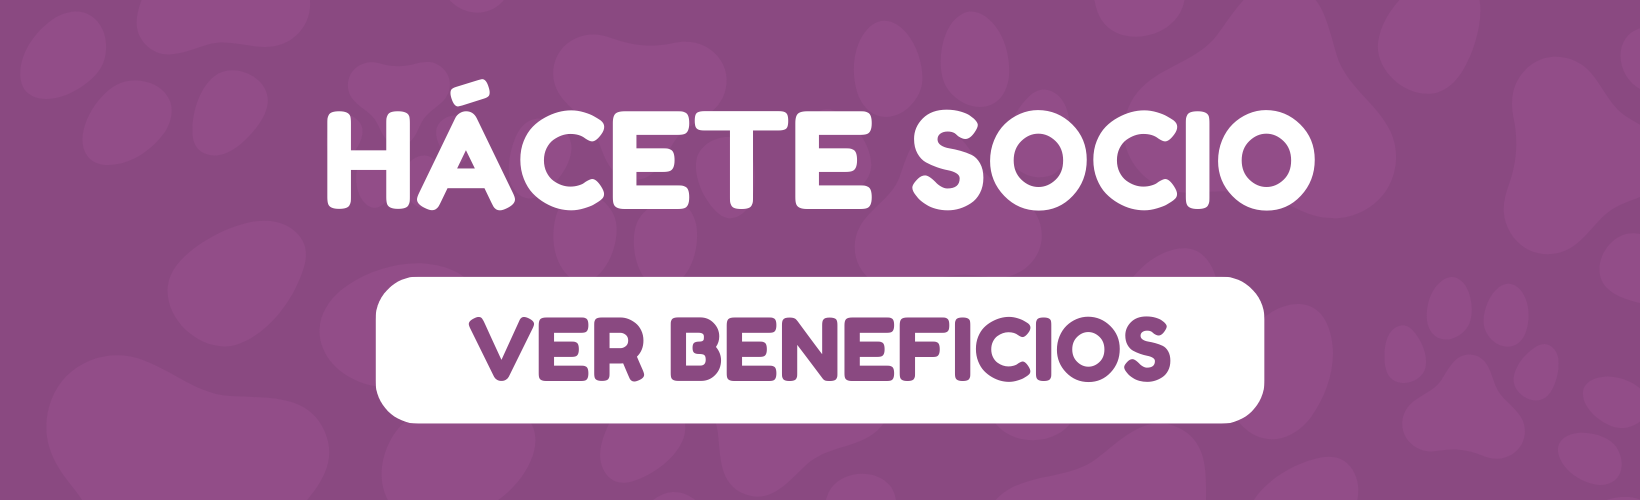
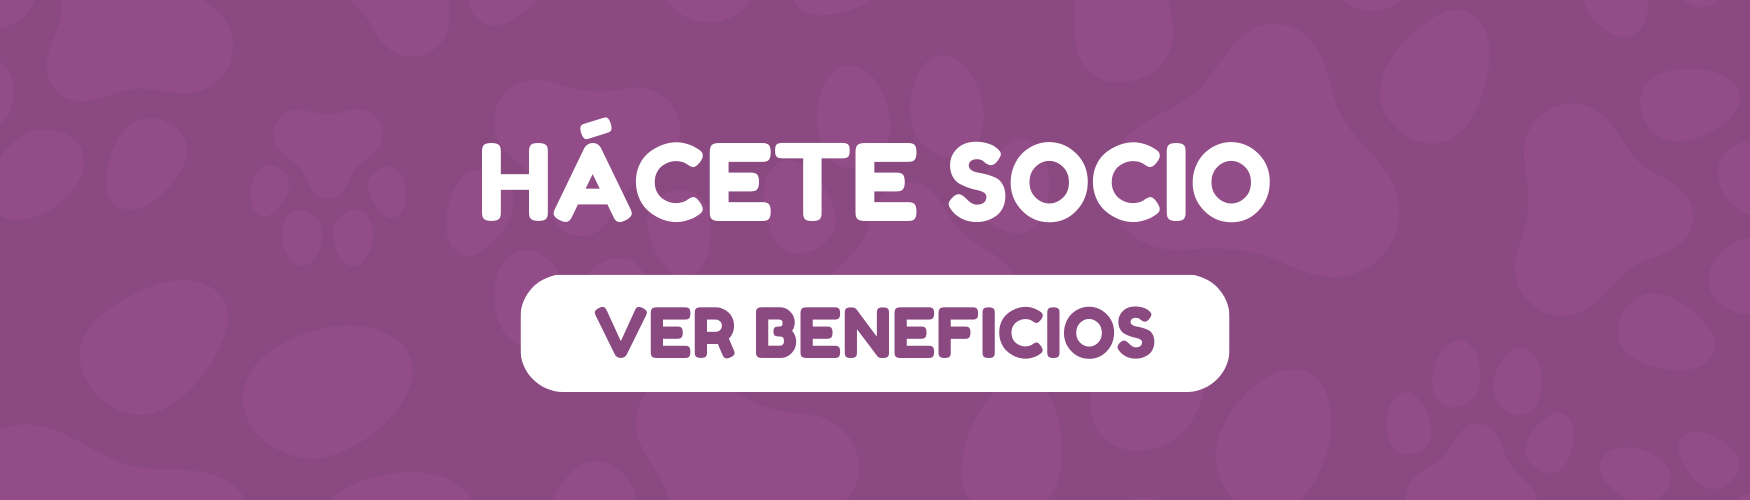
Corrección error socios mobile

Changed region(s): [[0.2177, 0.54, 0.7774, 0.87], [0.1866, 0.15, 0.8085, 0.45]]

diff --git a/html/vacunas.html b/html/vacunas.html
@@ -81,11 +81,11 @@
       <div class="container mb-5">
         <div class="row">
 
-          <div class="col-sm-6 col-md-4 col-lg-3 col-xl-8 m-auto">
+          <div class="col-sm-12 col-md-12 col-lg-8 col-xl-8 m-auto">
             <a href="socios.html"><div class="services-img-cont"><img src="../images/socio.png" class="w-100 m-auto d-flex services-img" alt=""></div></a>
           </div>
 
-          <div class="col-lg-4 col-sm-8 col-xs-12 m-auto">
+          <div class="col-lg-4 col-sm-12 col-md-12 col-xs-12 m-auto">
             <a href=""><img src="../images/services/vacunas.jpg" class="w-100 m-auto d-flex services-img-cont" alt=""></a>
           </div>
 

diff --git a/sass/style.scss b/sass/style.scss
@@ -71,6 +71,7 @@ $font-second: 'Open sans', sans-serif;
     width: 100%;
     height: 250px;
     transition: all 0.5s;
+    object-fit: cover;
 }
 
 .services-icon{

diff --git a/sass/style.css b/sass/style.css
@@ -62,6 +62,8 @@
   width: 100%;
   height: 250px;
   transition: all 0.5s;
+  -o-object-fit: cover;
+     object-fit: cover;
 }
 
 .services-icon {
